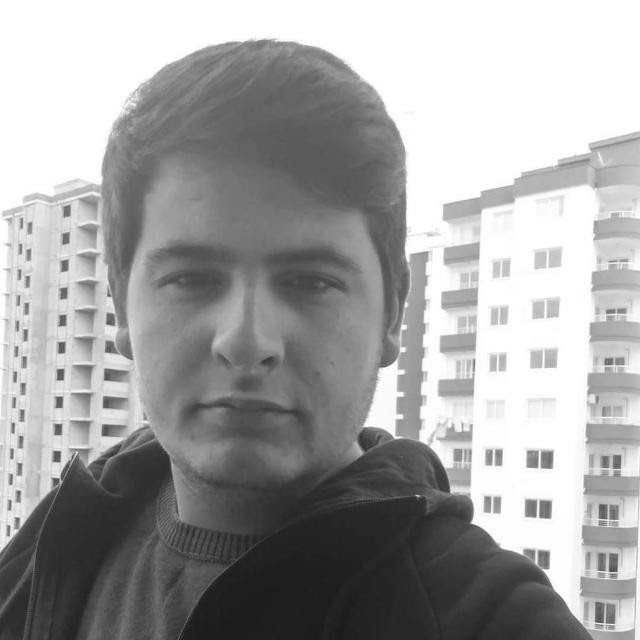
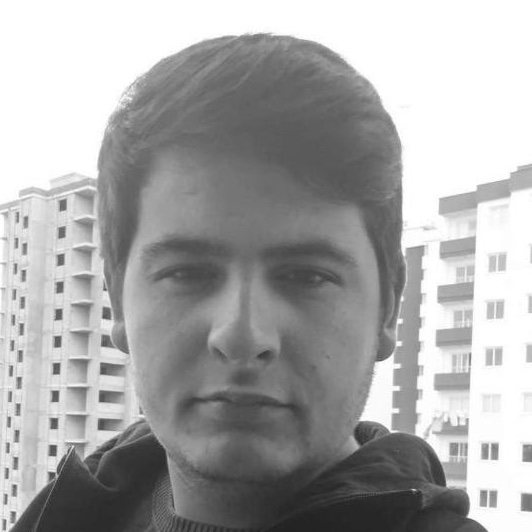
404 page added, and Image resized

diff --git a/pages/404.tsx b/pages/404.tsx
@@ -1,0 +1,27 @@
+import Head from "next/head";
+import Link from "next/link";
+import { FaChevronLeft, FaUnlink } from "react-icons/fa";
+export default function FourOhFour() {
+  return (
+    <>
+      <Head>
+        <title>Oopps! - rasit.me</title>
+        <meta
+          name="description"
+          content="I am an enthusiastic web and mobile developer. I like coding and developing new projects for startups, and I enjoy learning new technoloqies to improve my skills. I also have passion for learning different languages"
+        />
+        <link rel="icon" href="/favicon.ico" />
+      </Head>
+      <main className="flex justify-center flex-col items-center">
+        <FaUnlink className="text-[12rem] text-color my-12" />
+        <h1 className="text-color">404 - Page Not Found</h1>
+        <Link href="/">
+          <a className="text-color pt-2 flex justify-center flex-row items-center hover:opacity-50">
+            <FaChevronLeft className="mx-2" />
+            <span>Go back home</span>
+          </a>
+        </Link>
+      </main>
+    </>
+  );
+}

diff --git a/pages/index.tsx b/pages/index.tsx
@@ -5,9 +5,9 @@ import Image from "next/image";
 
 const Home: NextPage = () => {
   return (
-    <div className="dark:bg-slate-900 h-screen w-full flex items-center justify-center">
+    <>
       <Head>
-        <title>Raşit Çolakel - Software Engineer</title>
+        <title>Raşit Çolakel - Software Engineer - rasit.me</title>
         <meta
           name="description"
           content="I am an enthusiastic web and mobile developer. I like coding and developing new projects for startups, and I enjoy learning new technoloqies to improve my skills. I also have passion for learning different languages"
@@ -29,7 +29,7 @@ const Home: NextPage = () => {
         <SocialMedia />
       </main>
       <footer></footer>
-    </div>
+    </>
   );
 };
 

diff --git a/pages/_app.tsx b/pages/_app.tsx
@@ -1,8 +1,12 @@
-import '../styles/globals.css'
-import type { AppProps } from 'next/app'
+import "../styles/globals.css";
+import type { AppProps } from "next/app";
 
 function MyApp({ Component, pageProps }: AppProps) {
-  return <Component {...pageProps} />
+  return (
+    <div className="dark:bg-slate-900 h-screen w-full flex items-center justify-center">
+      <Component {...pageProps} />
+    </div>
+  );
 }
 
-export default MyApp
+export default MyApp;
